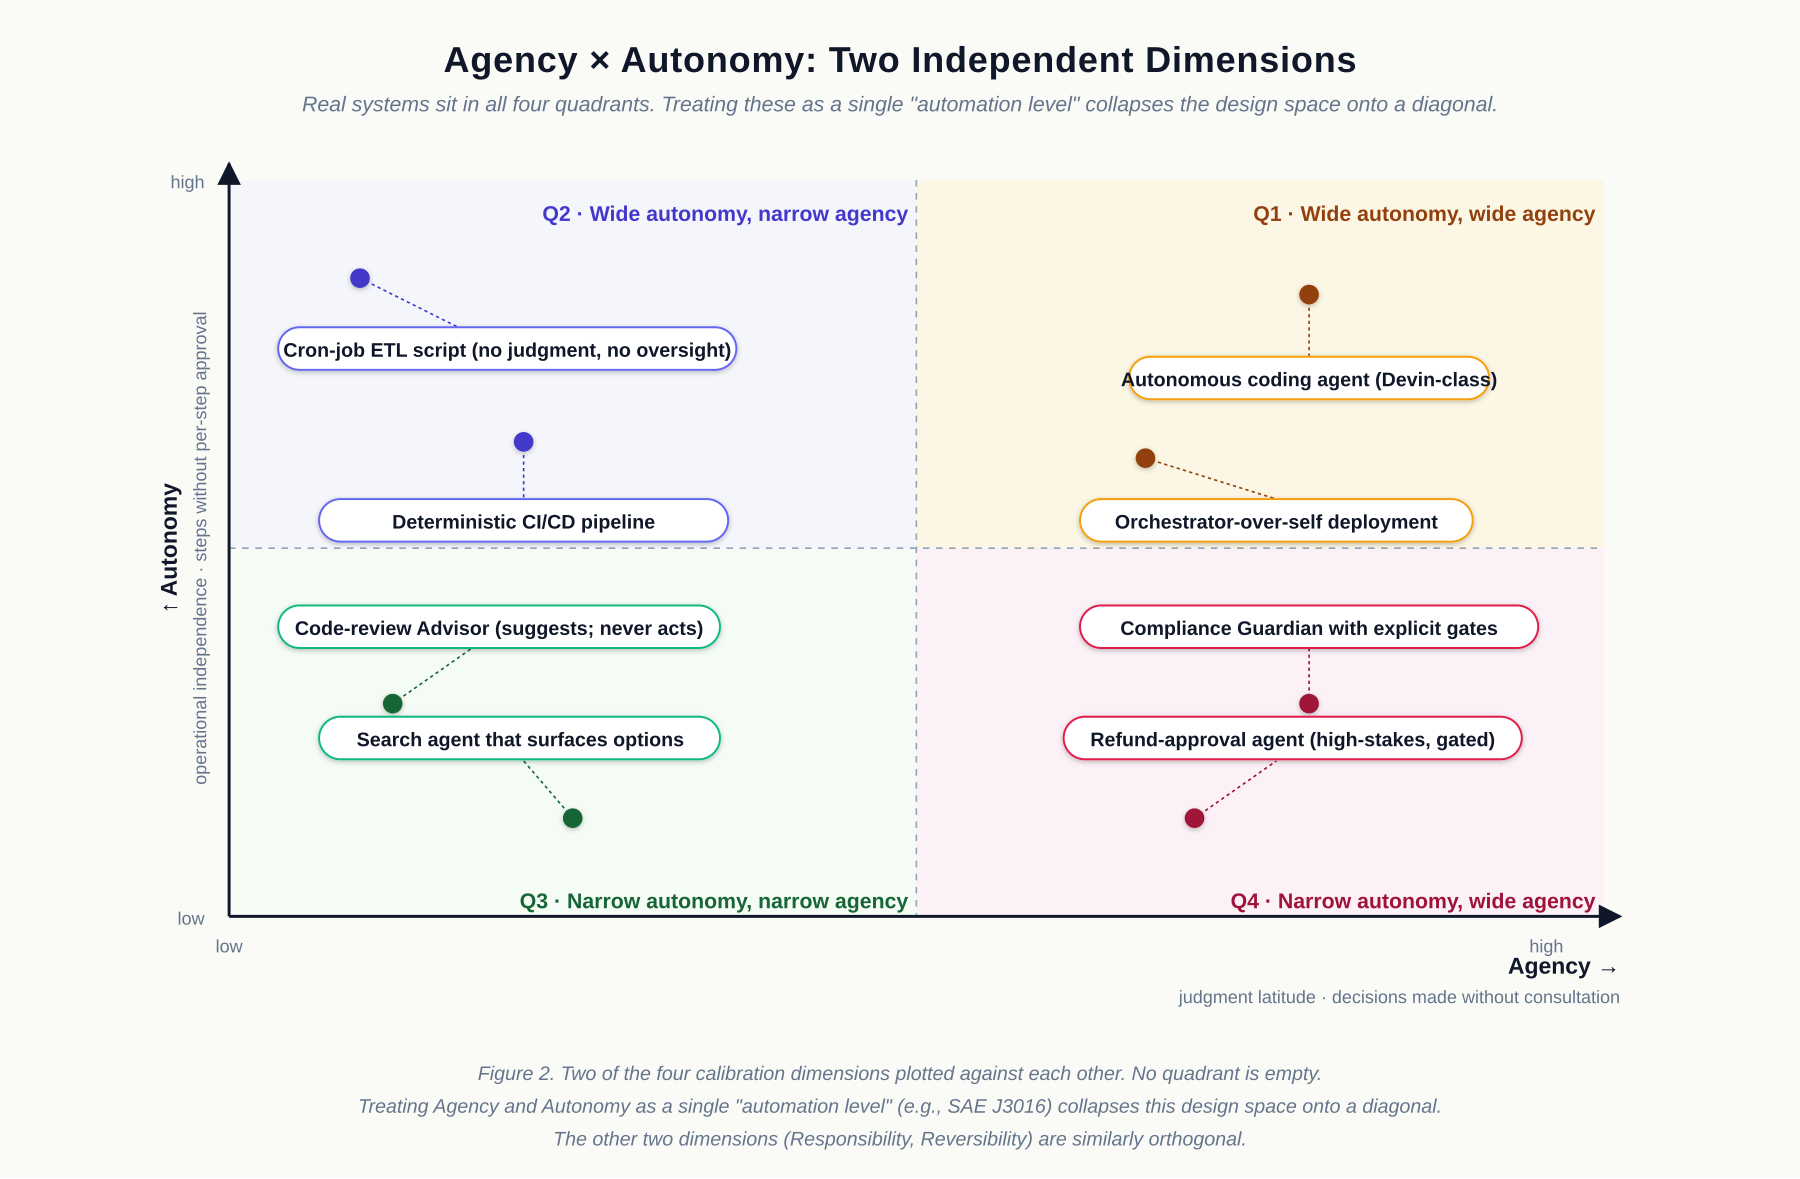
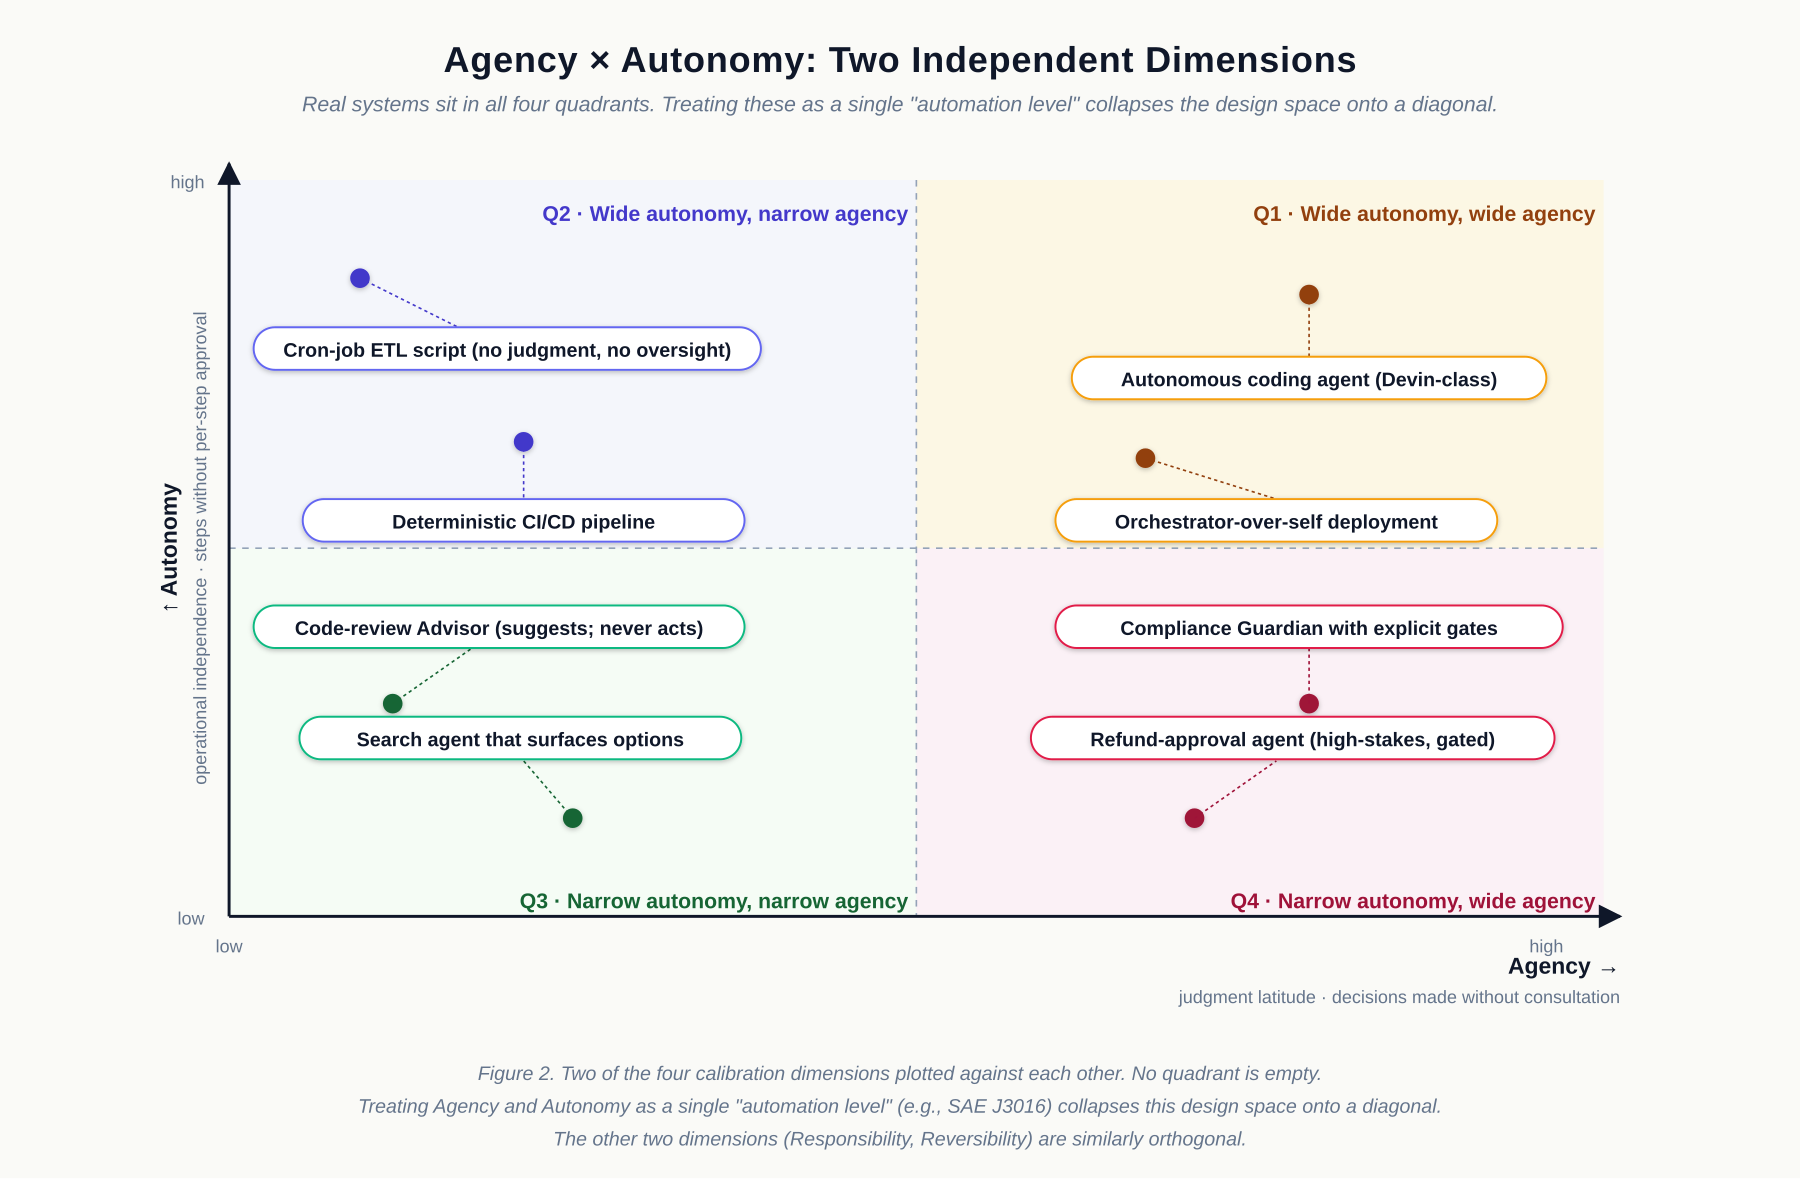
Figure 2: widen pill labels so text fits within their boxes
The "Autonomous coding agent (Devin-class)" pill was 220 px wide,
which is right at the limit of the text width when rendered with
fallback fonts (Inter is the SVG's first choice but isn't always
available at PNG-render time). The text crossed the right edge of
the pill in the rendered PNG.

Widened all eight pills with 30–70 px of additional room and
re-centered each rect on its existing text x-coordinate so the
visual placement is unchanged. New widths:

  Autonomous coding agent (Devin-class)         220 → 290
  Orchestrator-over-self deployment             240 → 270
  Cron-job ETL script (no judgment, no overs.)  280 → 310
  Deterministic CI/CD pipeline                  250 → 270
  Code-review Advisor (suggests; never acts)    270 → 300
  Search agent that surfaces options            245 → 270
  Compliance Guardian with explicit gates       280 → 310
  Refund-approval agent (high-stakes, gated)    280 → 320

All widened rects still sit within the 0–1100 viewBox. No leader
lines, dots, axes, or quadrant tints were touched.

Regenerated four-dimensions-orthogonality.png via
rsvg-convert --width=1800. Rebuilt the PPTX and HTML decks (which
both consume the figure) and recompiled the paper PDF (still 34
pages).

diff --git a/paper/architecture-of-intent.html b/paper/architecture-of-intent.html
@@ -1273,14 +1273,14 @@ body.overview .slide > * { transform: scale(0.32); transform-origin: top left; w
   <!-- Q1 (top-right) -->
   <circle cx="800" cy="180" r="6" fill="#92400E" filter="url(#dotShadow)"/>
   <line x1="800" y1="180" x2="800" y2="218" stroke="#92400E" stroke-width="1" stroke-dasharray="2,2"/>
-  <rect x="690" y="218" width="220" height="26" rx="13" fill="#FFFFFF"
+  <rect x="655" y="218" width="290" height="26" rx="13" fill="#FFFFFF"
         stroke="#F59E0B" stroke-width="1.2" filter="url(#dotShadow)"/>
   <text x="800" y="236" text-anchor="middle" font-size="12" font-weight="600"
         fill="#0F1729">Autonomous coding agent (Devin-class)</text>
 
   <circle cx="700" cy="280" r="6" fill="#92400E" filter="url(#dotShadow)"/>
   <line x1="700" y1="280" x2="780" y2="305" stroke="#92400E" stroke-width="1" stroke-dasharray="2,2"/>
-  <rect x="660" y="305" width="240" height="26" rx="13" fill="#FFFFFF"
+  <rect x="645" y="305" width="270" height="26" rx="13" fill="#FFFFFF"
         stroke="#F59E0B" stroke-width="1.2" filter="url(#dotShadow)"/>
   <text x="780" y="323" text-anchor="middle" font-size="12" font-weight="600"
         fill="#0F1729">Orchestrator-over-self deployment</text>
@@ -1288,14 +1288,14 @@ body.overview .slide > * { transform: scale(0.32); transform-origin: top left; w
   <!-- Q2 (top-left) -->
   <circle cx="220" cy="170" r="6" fill="#4338CA" filter="url(#dotShadow)"/>
   <line x1="220" y1="170" x2="280" y2="200" stroke="#4338CA" stroke-width="1" stroke-dasharray="2,2"/>
-  <rect x="170" y="200" width="280" height="26" rx="13" fill="#FFFFFF"
+  <rect x="155" y="200" width="310" height="26" rx="13" fill="#FFFFFF"
         stroke="#6366F1" stroke-width="1.2" filter="url(#dotShadow)"/>
   <text x="310" y="218" text-anchor="middle" font-size="12" font-weight="600"
         fill="#0F1729">Cron-job ETL script (no judgment, no oversight)</text>
 
   <circle cx="320" cy="270" r="6" fill="#4338CA" filter="url(#dotShadow)"/>
   <line x1="320" y1="270" x2="320" y2="305" stroke="#4338CA" stroke-width="1" stroke-dasharray="2,2"/>
-  <rect x="195" y="305" width="250" height="26" rx="13" fill="#FFFFFF"
+  <rect x="185" y="305" width="270" height="26" rx="13" fill="#FFFFFF"
         stroke="#6366F1" stroke-width="1.2" filter="url(#dotShadow)"/>
   <text x="320" y="323" text-anchor="middle" font-size="12" font-weight="600"
         fill="#0F1729">Deterministic CI/CD pipeline</text>
@@ -1303,14 +1303,14 @@ body.overview .slide > * { transform: scale(0.32); transform-origin: top left; w
   <!-- Q3 (bottom-left) -->
   <circle cx="240" cy="430" r="6" fill="#166534" filter="url(#dotShadow)"/>
   <line x1="240" y1="430" x2="290" y2="395" stroke="#166534" stroke-width="1" stroke-dasharray="2,2"/>
-  <rect x="170" y="370" width="270" height="26" rx="13" fill="#FFFFFF"
+  <rect x="155" y="370" width="300" height="26" rx="13" fill="#FFFFFF"
         stroke="#10B981" stroke-width="1.2" filter="url(#dotShadow)"/>
   <text x="305" y="388" text-anchor="middle" font-size="12" font-weight="600"
         fill="#0F1729">Code-review Advisor (suggests; never acts)</text>
 
   <circle cx="350" cy="500" r="6" fill="#166534" filter="url(#dotShadow)"/>
   <line x1="350" y1="500" x2="320" y2="465" stroke="#166534" stroke-width="1" stroke-dasharray="2,2"/>
-  <rect x="195" y="438" width="245" height="26" rx="13" fill="#FFFFFF"
+  <rect x="183" y="438" width="270" height="26" rx="13" fill="#FFFFFF"
         stroke="#10B981" stroke-width="1.2" filter="url(#dotShadow)"/>
   <text x="318" y="456" text-anchor="middle" font-size="12" font-weight="600"
         fill="#0F1729">Search agent that surfaces options</text>
@@ -1318,14 +1318,14 @@ body.overview .slide > * { transform: scale(0.32); transform-origin: top left; w
   <!-- Q4 (bottom-right) -->
   <circle cx="800" cy="430" r="6" fill="#9F1239" filter="url(#dotShadow)"/>
   <line x1="800" y1="430" x2="800" y2="395" stroke="#9F1239" stroke-width="1" stroke-dasharray="2,2"/>
-  <rect x="660" y="370" width="280" height="26" rx="13" fill="#FFFFFF"
+  <rect x="645" y="370" width="310" height="26" rx="13" fill="#FFFFFF"
         stroke="#E11D48" stroke-width="1.2" filter="url(#dotShadow)"/>
   <text x="800" y="388" text-anchor="middle" font-size="12" font-weight="600"
         fill="#0F1729">Compliance Guardian with explicit gates</text>
 
   <circle cx="730" cy="500" r="6" fill="#9F1239" filter="url(#dotShadow)"/>
   <line x1="730" y1="500" x2="780" y2="465" stroke="#9F1239" stroke-width="1" stroke-dasharray="2,2"/>
-  <rect x="650" y="438" width="280" height="26" rx="13" fill="#FFFFFF"
+  <rect x="630" y="438" width="320" height="26" rx="13" fill="#FFFFFF"
         stroke="#E11D48" stroke-width="1.2" filter="url(#dotShadow)"/>
   <text x="790" y="456" text-anchor="middle" font-size="12" font-weight="600"
         fill="#0F1729">Refund-approval agent (high-stakes, gated)</text>